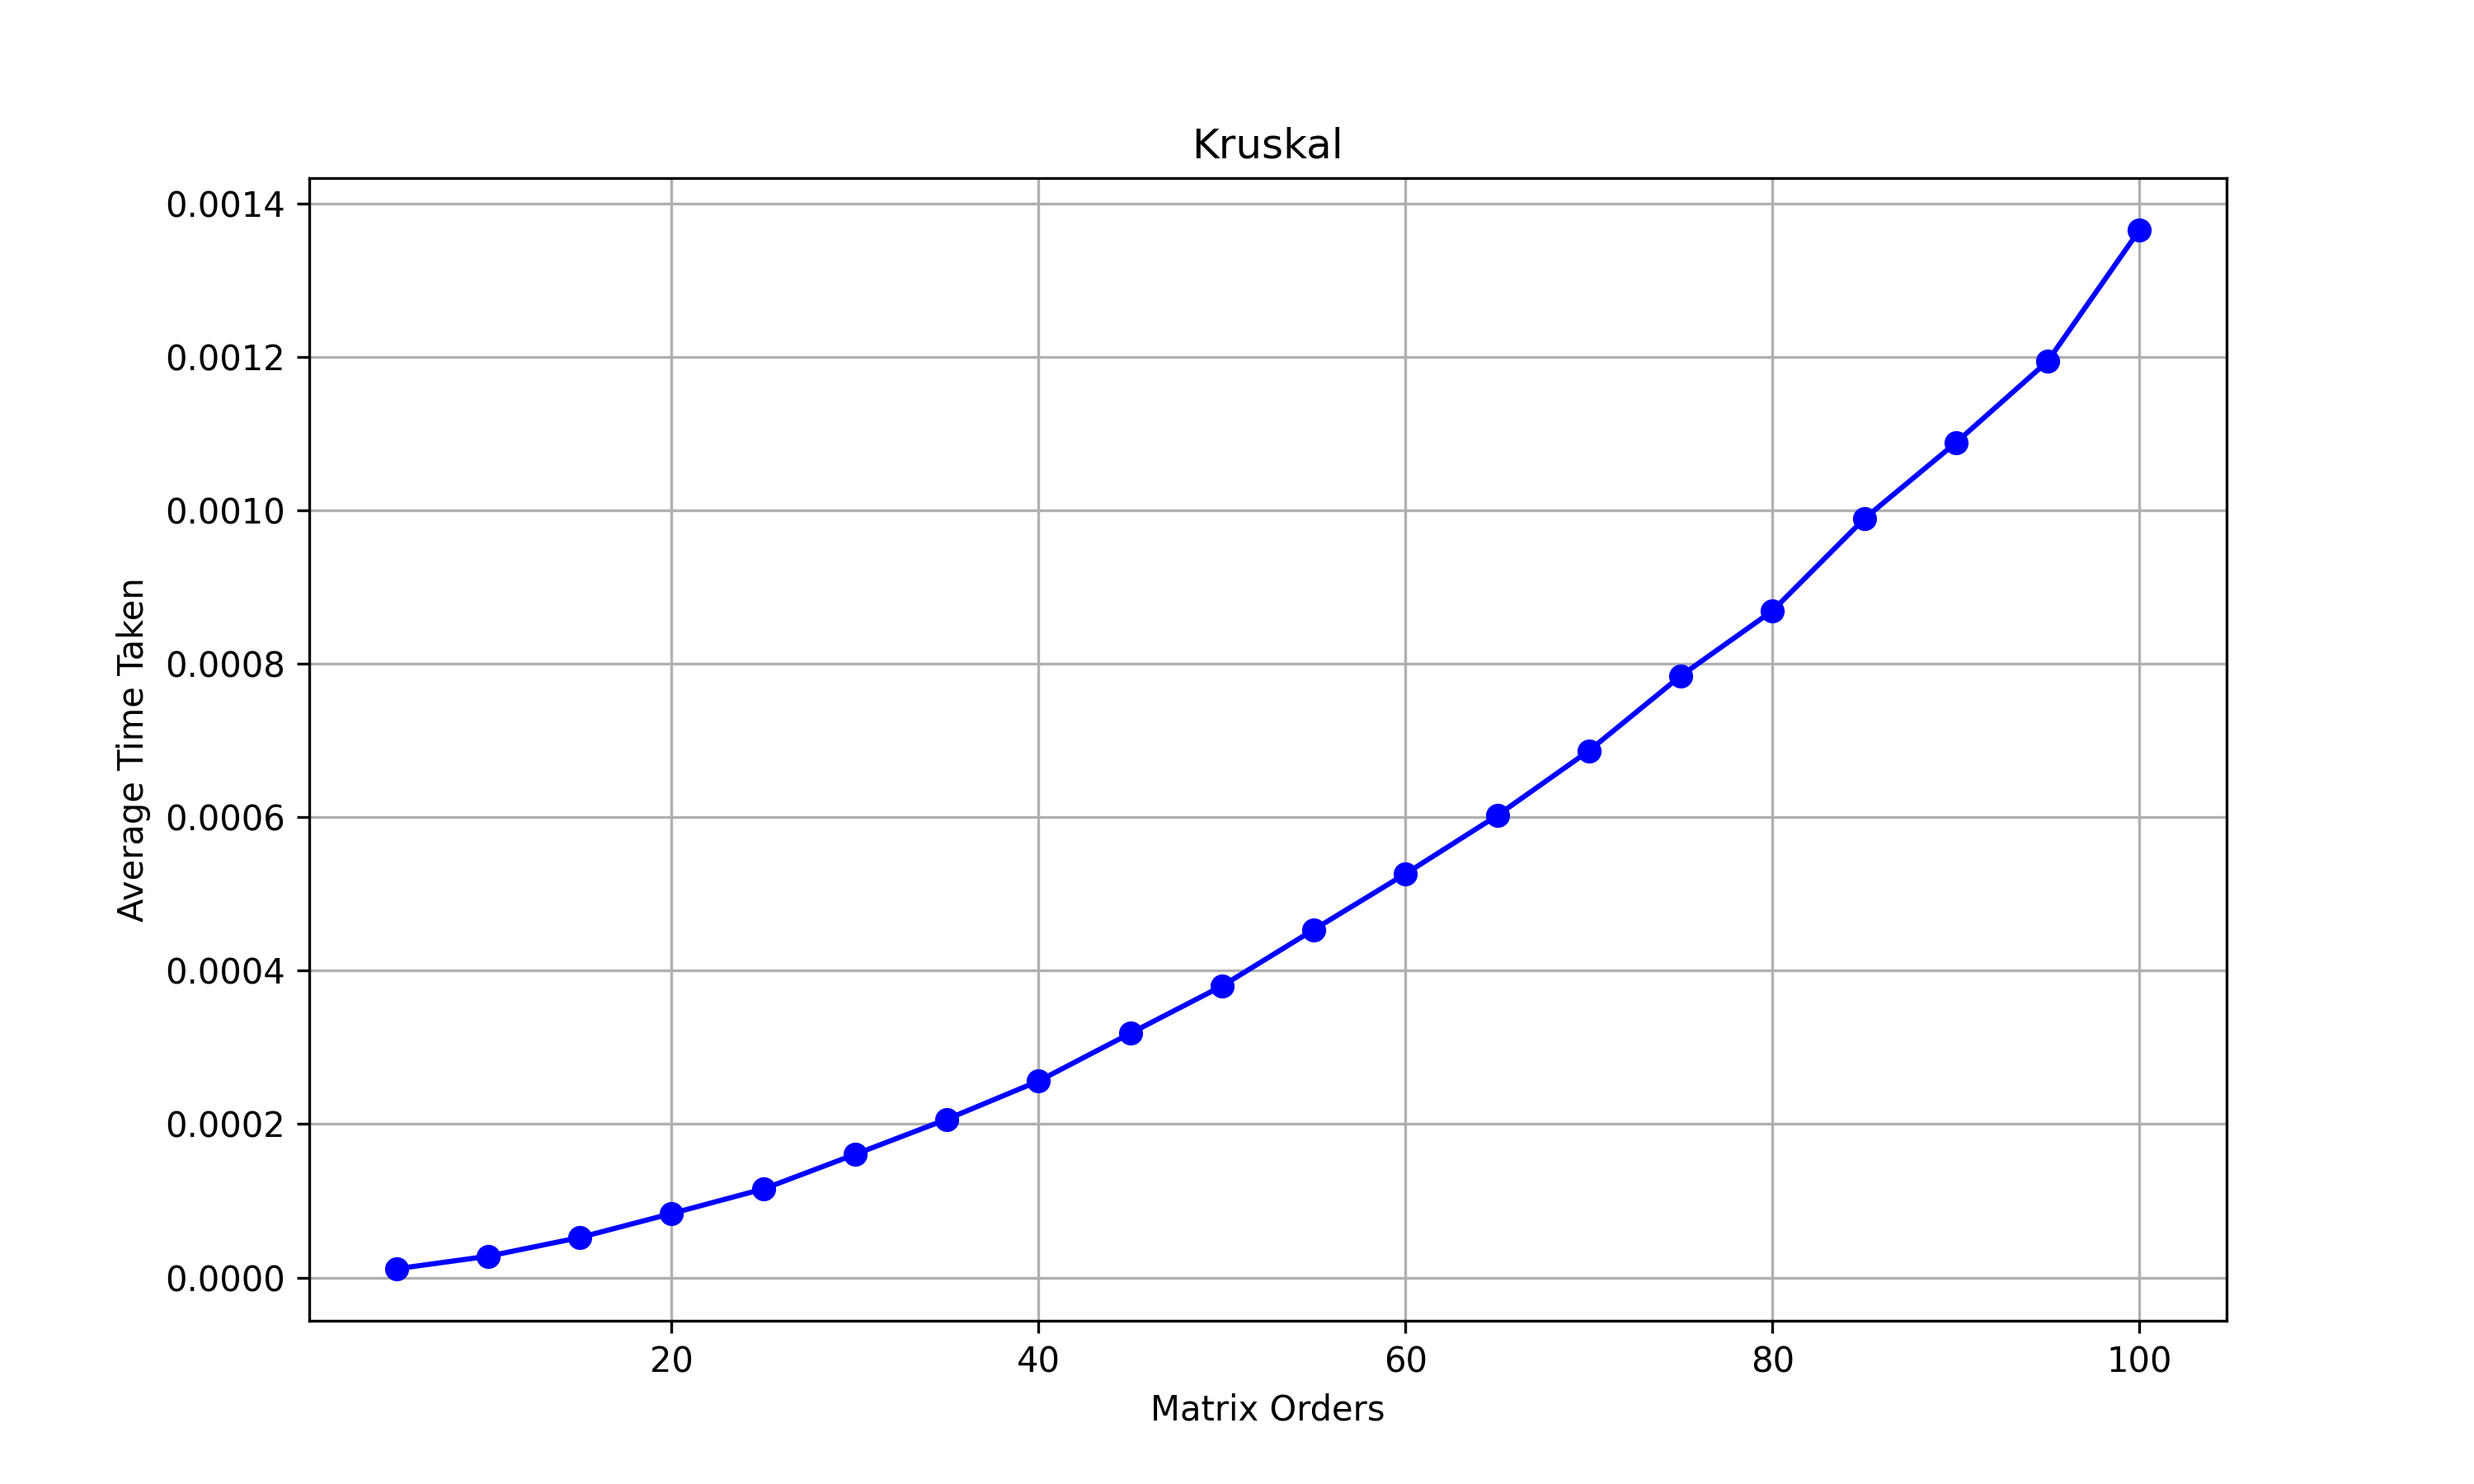
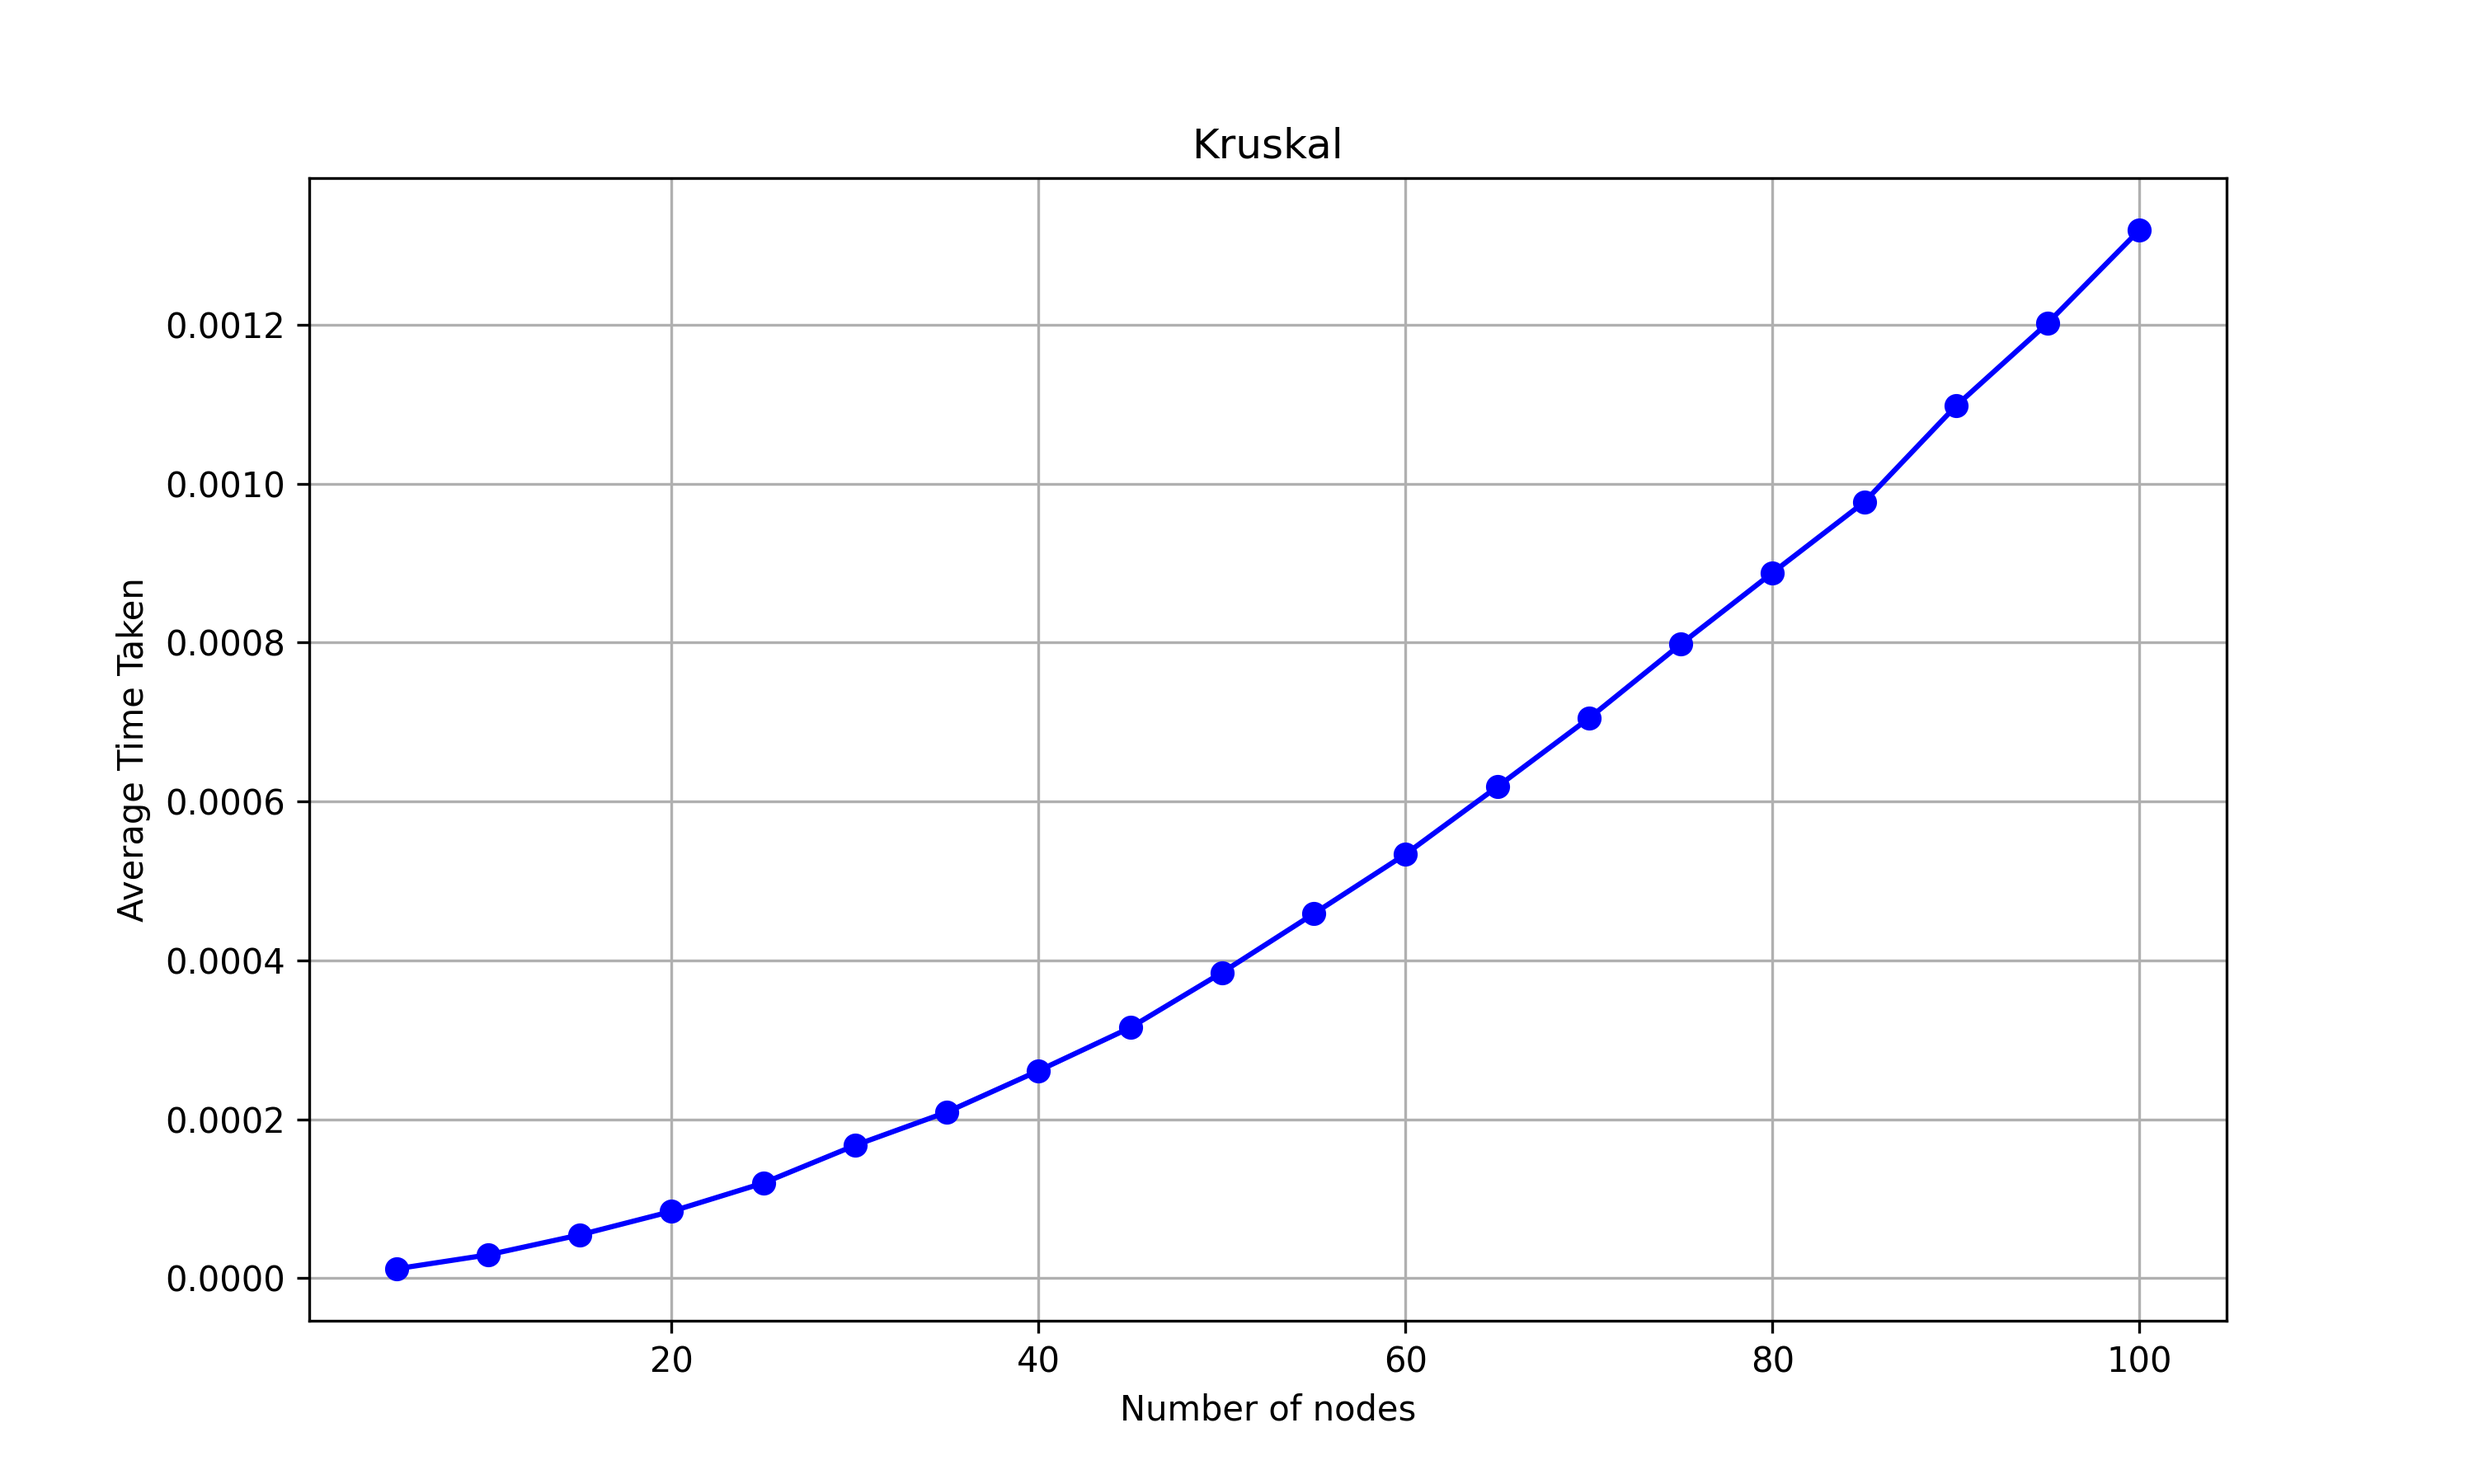
All graphs and algorithms added

diff --git a/dijkstra/evaluate.py b/dijkstra/evaluate.py
@@ -1,0 +1,49 @@
+import random
+from dijkstra import dijkstra
+import time
+import matplotlib.pyplot as plt
+
+def generate_adjacency_matrix(n: int, edge_probability: float) -> tuple[list[list[int]], int]:
+    matrix = [[0] * n for _ in range(n)]
+    
+    for i in range(n):
+        for j in range(i + 1, n):
+            if random.random() < edge_probability:
+                weight = random.randint(1, 10)
+                matrix[i][j] = weight
+                matrix[j][i] = weight
+    
+    source_node = random.randint(0, n - 1)
+    
+    return matrix, source_node
+
+def get_mean_times(func, sizes=list(range(5, 105, 5)), iterations=200):
+    mean_times = []
+    for size in sizes:
+        total_time = 0.0
+        p = 0.1
+        for _ in range(iterations):
+            mat, src = generate_adjacency_matrix(size, p)
+            start = time.perf_counter()
+            func(mat, src)
+            end = time.perf_counter()
+            total_time += (end - start)
+        mean_times.append(total_time / iterations)
+    return mean_times
+
+def plot(algo_name: str, param_list: list[float], sizes: list[int] = list(range(5, 105, 5))):
+    plt.figure(figsize=(10, 6))
+    plt.grid(visible=True)
+    plt.title(algo_name)
+    plt.xlabel('Number of nodes')
+    plt.ylabel('Average Time Taken')
+    plt.plot(sizes, param_list, marker="o", color="blue")
+    plt.savefig(f'{algo_name}.png', dpi=300)
+    plt.show()
+
+def main():
+    mean_times = get_mean_times(dijkstra)
+    plot("Dijkstra", mean_times)
+
+if __name__ == "__main__":
+    main()

diff --git a/linear_search_vs_binary_search/evaluate.py b/linear_search_vs_binary_search/evaluate.py
@@ -18,11 +18,11 @@ def gen_array_and_key_binary(size: int, case: str) -> (list[int], int):
     if case == 'w':
         return list(range(size)), size
     if case == 'b':
-        mid = size // 2
+        mid = (size - 1) // 2
         array = list(range(size))
         return array, array[mid]
     if case == 'a':
-        return [random.randint(0, size) for i in range(size)], random.randint(0, size)       
+        return [random.randint(0, size) for i in range(size)], random.randint(0, (size - 1) // 2)       
 
 def get_comparison_numbers(search_func: callable, generation_function: callable, sizes: list[int], case: str) -> list[int]:
     comparison_numbers = []

diff --git a/kruskal/evaluate.py b/kruskal/evaluate.py
@@ -40,7 +40,7 @@ def plot(algo_name: str, param_list: list[float], sizes: list[int] = list(range(
     plt.figure(figsize=(10, 6))
     plt.grid(visible=True)
     plt.title(algo_name)
-    plt.xlabel('Matrix Orders')
+    plt.xlabel('Number of nodes')
     plt.ylabel('Average Time Taken')
     plt.plot(sizes, param_list, marker="o", color="blue")
     plt.savefig(f'{algo_name}.png', dpi=300)

diff --git a/README.md b/README.md
@@ -68,7 +68,7 @@ Given a weighted connected graph of N cities, write a  program to find shortest 
 ## Program 11:
 Write program to print all the nodes reachable from a given starting node in a digraph by using BFS method. Give the trace of this algorithm.
 
-![](bfs/)
+![](bfs/Breadth-first%20Search.png)
 
 ## Program 12:
 A university is looking for engineering graduates, they need to sort the candidate‘s resume based on their ranking. Write a C program to sort the resumes by using heap sort. Determine the time required to sort the elements. Plot a graph of the number of elements versus time taken. Specify the time efficiency class of this algorithm.
